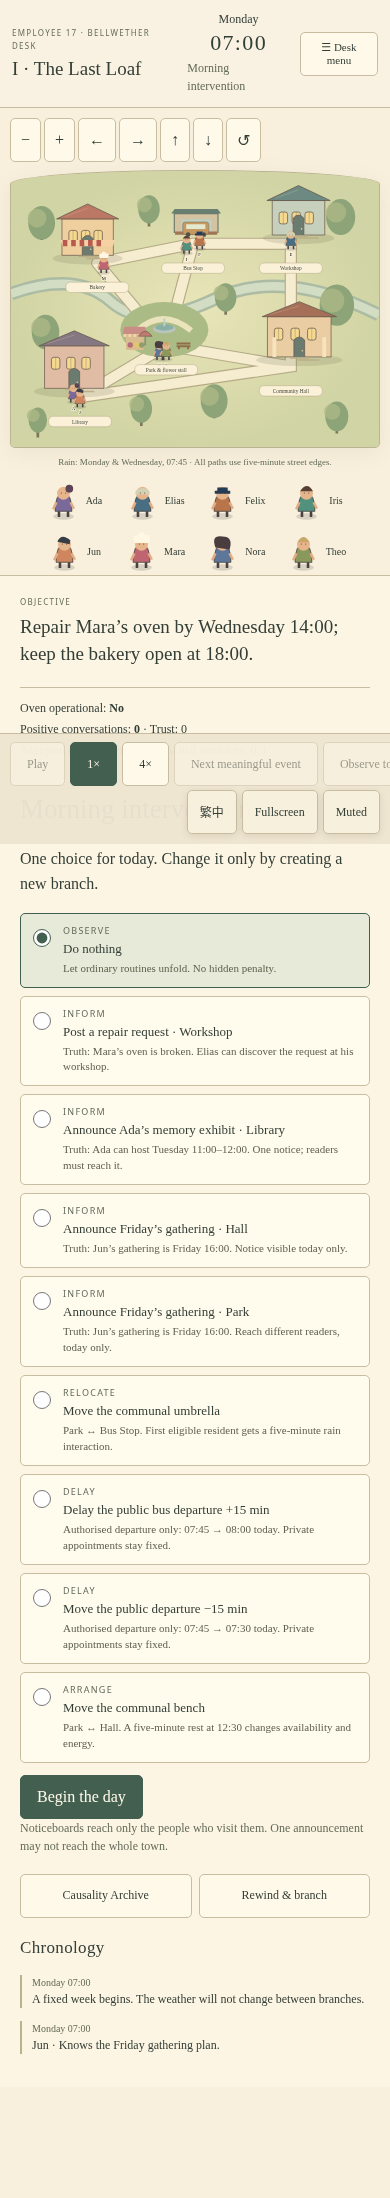
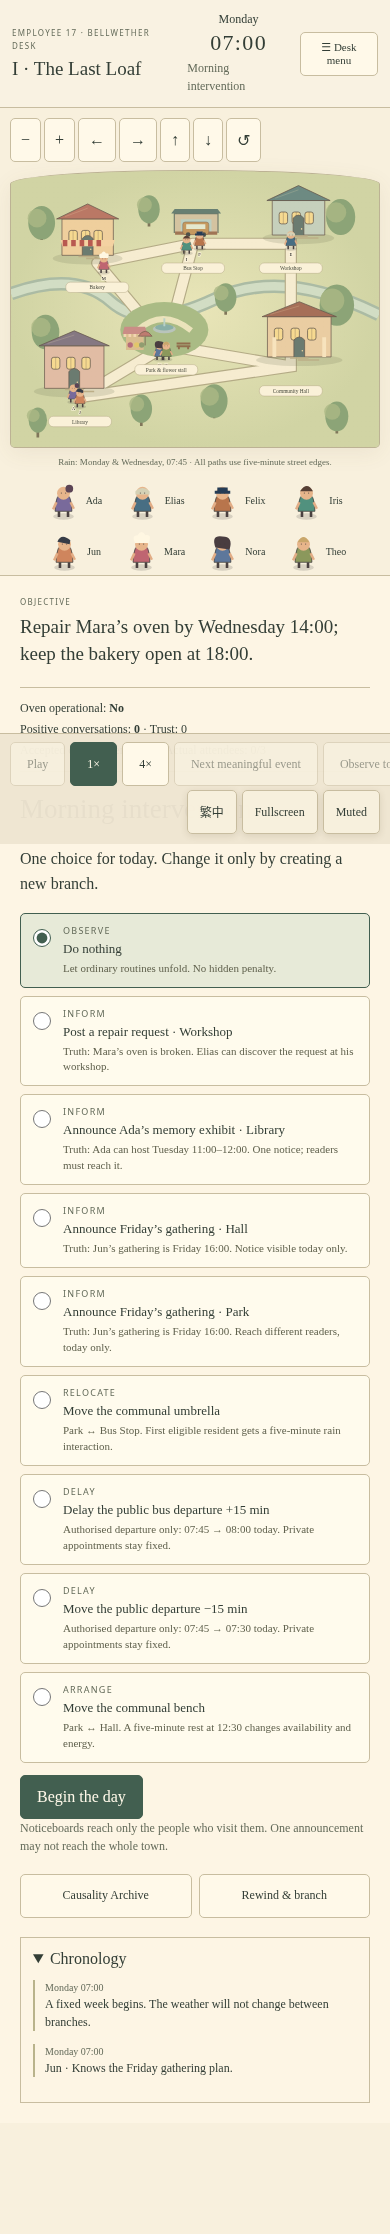
Make chronology collapsible and retain secondary resident outcomes

diff --git a/src/app.js b/src/app.js
@@ -152,6 +152,8 @@ function outcomes(s) {
       "conversation",
       "attend",
       "ride",
+      "consultation",
+      "alternative",
       "bakery-closed",
       "bakery-open",
     ].includes(e.type),
@@ -166,14 +168,16 @@ function outcomes(s) {
 function recent() {
   const s = state();
   if (!$("#recent") || !s) return;
-  $("#recent").innerHTML = `<h3>${tr().chronology}</h3>${s.events
-    .slice(-5)
-    .reverse()
-    .map(
-      (e) =>
-        `<p class="event"><small>${stamp(e)}</small>${esc(eventText(e))}</p>`,
-    )
-    .join("")}`;
+  const expanded = $("#recent-detail")?.open ?? true;
+  $("#recent").innerHTML =
+    `<details id="recent-detail" ${expanded ? "open" : ""}><summary>${tr().chronology}</summary>${s.events
+      .slice(-5)
+      .reverse()
+      .map(
+        (e) =>
+          `<p class="event"><small>${stamp(e)}</small>${esc(eventText(e))}</p>`,
+      )
+      .join("")}</details>`;
 }
 function position(a) {
   if (!a.edge) return POS[a.node];
